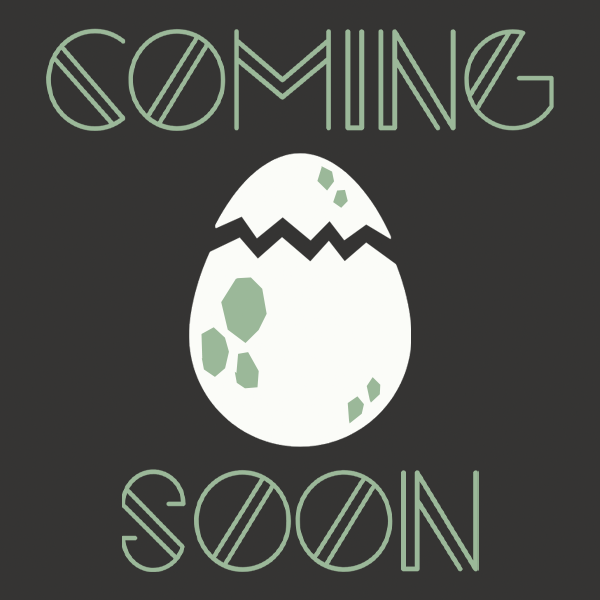
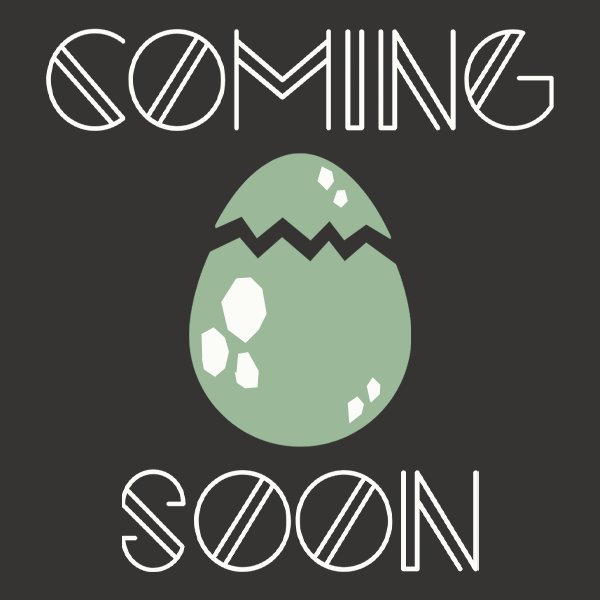
Fixed Color Added Footer Feature

diff --git a/index.html b/index.html
@@ -231,8 +231,8 @@
         </section>
         <section id="cta" class="section-cta d-flex align-items-center justify-content-center">
             <a href="#Contact" class="cta-arrow">
-                <i class="bi bi-arrow-right"></i></a>
-            Impressed with my portfolio already? <a href="#Contact" class="link-style"> Contact me now!</a>
+                <i class="bi bi-arrow-right m-2"></i></a>
+            Impressed with my portfolio already? <a href="#Contact" class="linkstyle m-2"> Contact me now!</a>
             <a href="#Contact" class="cta-arrow">
                 <i class="bi bi-arrow-left"></i></a>
         </section>
@@ -255,7 +255,7 @@
                                                 <image src="/img/COMINGSOON_dark_bg.png"></image>
                                             </picture>
                                             <div class="hc-content">
-                                                <p>A Full Stack bug tracker app built with ASP.NET MVC, C# and Postgres.</p>
+                                                <p>Generates a range of numbers (1-100) on the page when a button is pressed</p>
                                                 <a class="btn btn-primary" href="#">Learn More</a>
                                             </div>
                                         </div>
@@ -270,7 +270,7 @@
                                                 <image src="/img/COMINGSOON_light_bg.png"></image>
                                             </picture>
                                             <div class="hc-content">
-                                                <p>A very cool app made with some script language I have yet to learn.</p>
+                                                <p>Reverse a sentence written by a user.</p>
                                                 <a class="btn btn-primary" href="#">Learn More</a>
                                             </div>
                                         </div>
@@ -285,7 +285,7 @@
                                                 <image src="/img/COMINGSOON_green_bg.png"></image>
                                             </picture>
                                             <div class="hc-content">
-                                                <p>A super neat blog that I wrote and built from scratch.</p>
+                                                <p>Check if a word/sentence is a palindrome or no.</p>
                                                 <a class="btn btn-primary" href="#">Learn More</a>
                                             </div>
                                         </div>
@@ -350,6 +350,22 @@
 
 
     <footer class="container-fluid mt-5">
+
+        <div class="row footer-bg-cta">
+            <div class="col">
+                <div class="container py-2 footer-cta">
+                    <div class="row row-cols-1 d-flex align-items-center justify-content-center text-center">
+                        <div class="col">
+                            <h1>Let's work together :)</h1>
+                            <h4>Need something done? I'm open to new opportunities and ready to work!</h4>
+                        </div>
+                    </div>
+                </div>
+            </div>
+        </div>
+
+<!-- Actual Footer START --------------------------------------->
+
         <div class="row align-items-center footer-main">
             <div class="col container">
                 <div class="row align-items-center my-2">

diff --git a/css/site.css b/css/site.css
@@ -165,7 +165,20 @@ h1,
     font-size: 2rem;
 }
 
+.footer-cta {
+    background-color: var(--kls-secondary-color);
+    width: 75%;
+    border-radius: 15px;
+}
 
+.footer-bg-cta {
+    background: linear-gradient(to bottom, 
+                                var(--kls-background-color), 
+                                var(--kls-background-color) 50%, 
+                                var(--kls-darker-color) 50%, 
+                                var(--kls-darker-color) 100%);
+                                padding-bottom: .5rem;
+}
 /*END FOOTER STYLES*/
 
 /*------------------------------------------------------------------------------------*/
@@ -258,6 +271,10 @@ section {
 .section-page:nth-last-child(3) {
     background-color: var(--kls-light-color);
 }
+
+/* .section-page:last-child {
+    background-color: var(--kls-primary-color);
+} */
 
 .devicons {
     font-size: 4rem;
